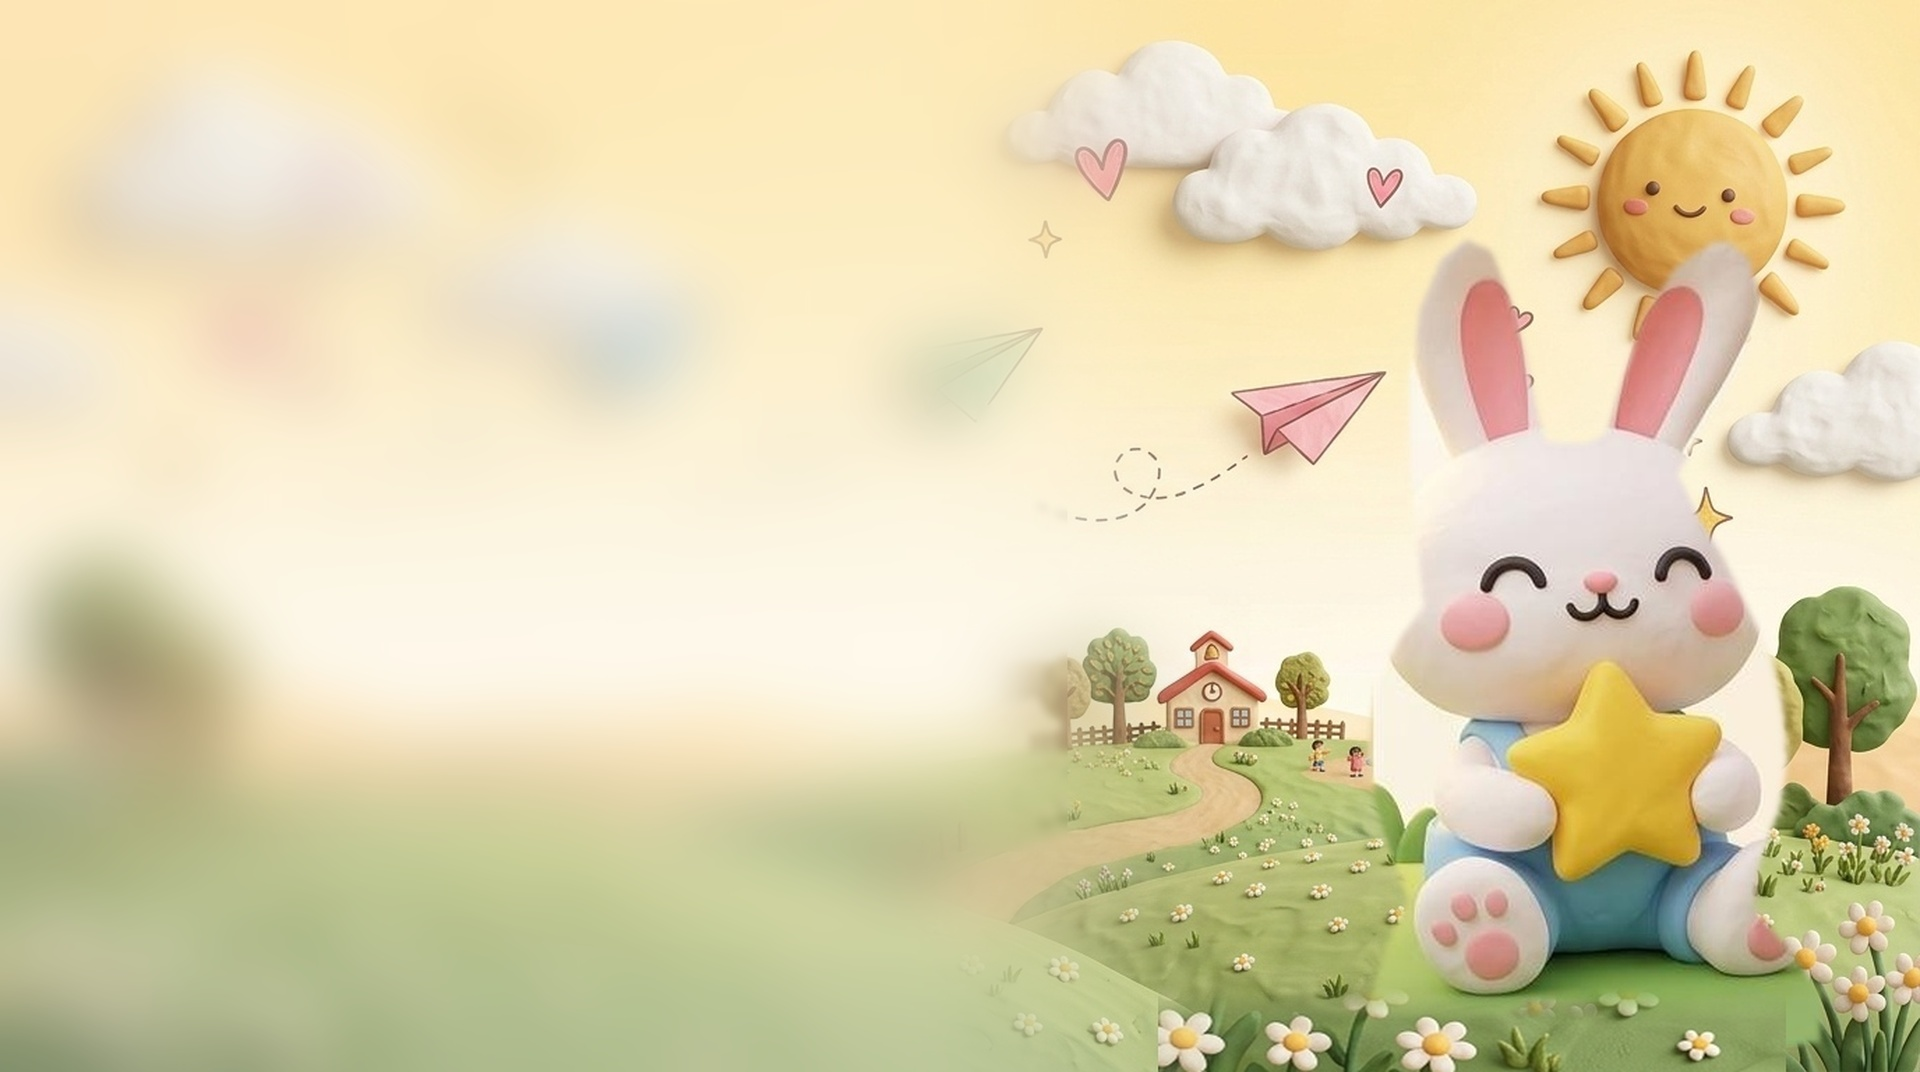
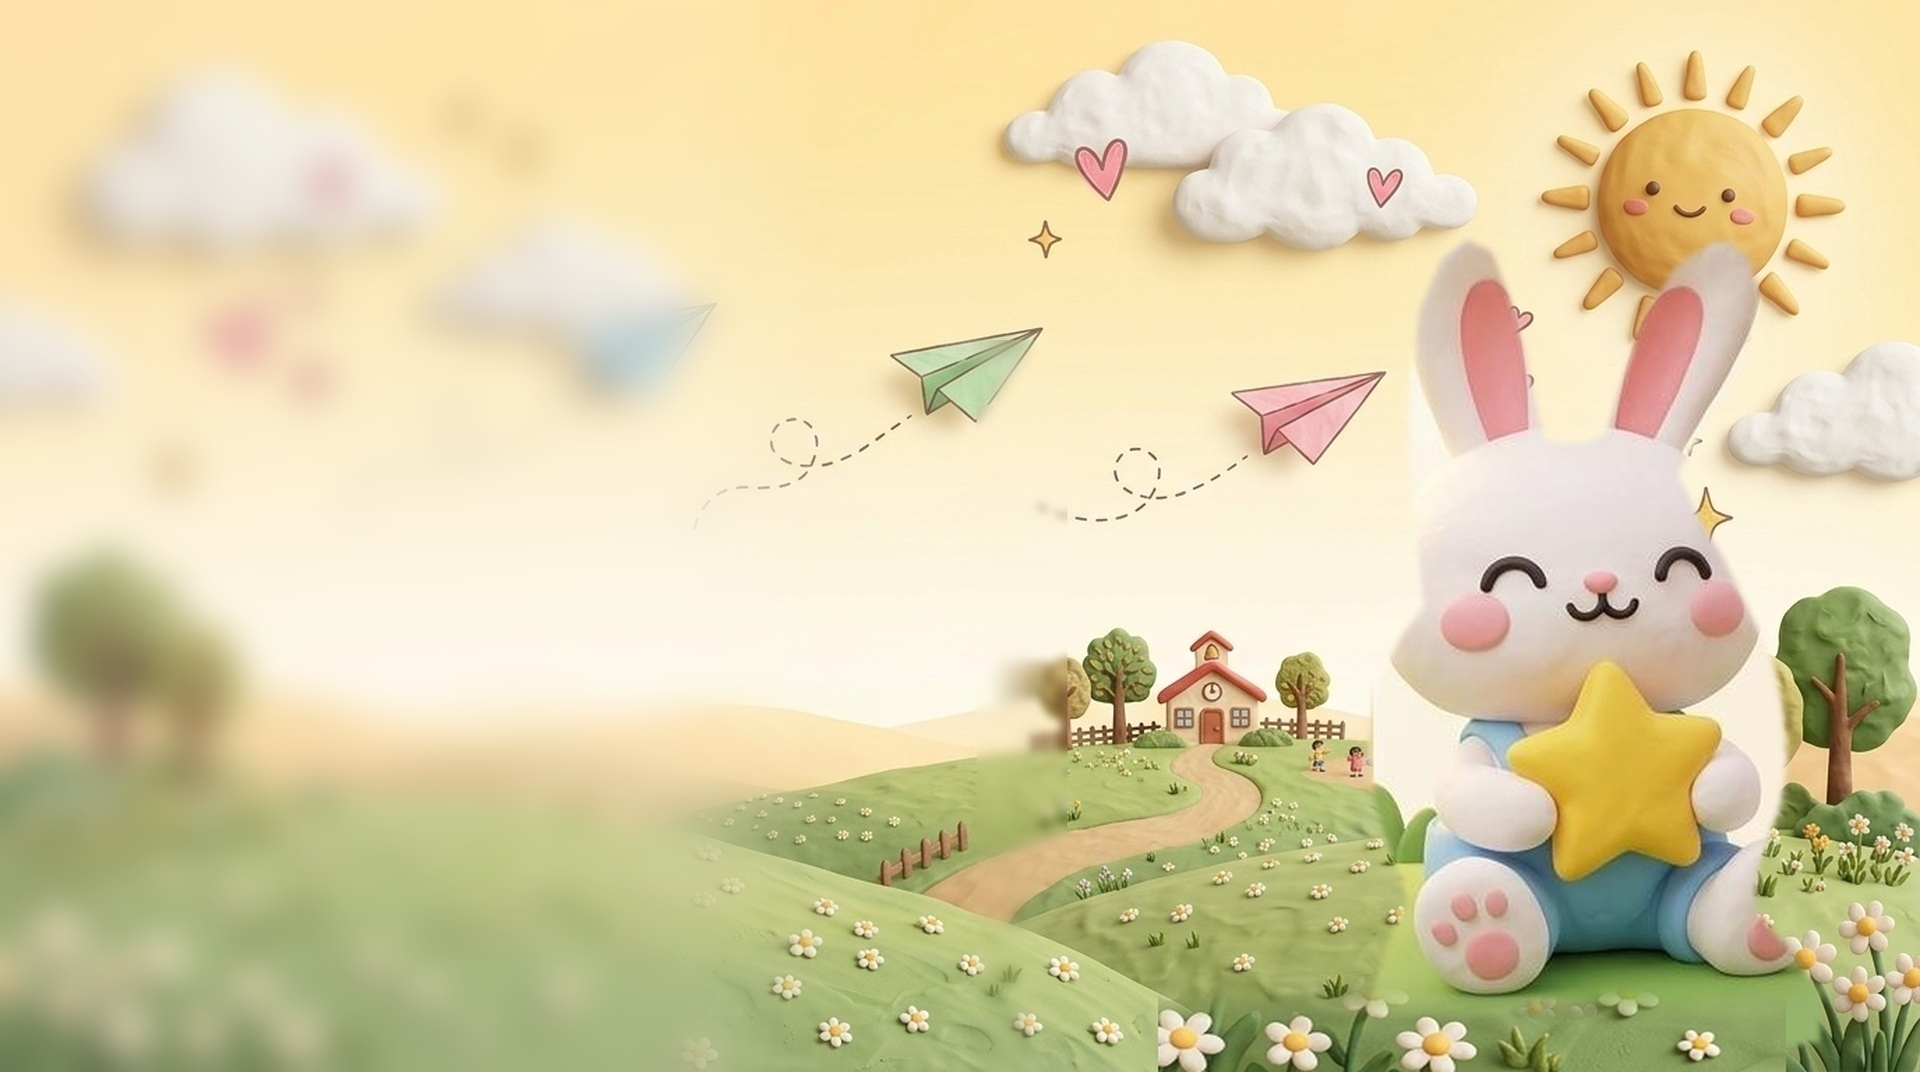
fix(hero): regenerate tailored crisp hero image with perfect alignment and clarity

diff --git a/index.html b/index.html
@@ -179,9 +179,9 @@
   <!-- =========================================================================
        2. ГЛАВНЫЙ ЭКРАН В СТИЛЕ SUN SCHOOL (ПОЛНОФОРМАТНОЕ ФОТО С ЗАМЫЛЕНИЕМ ПОД ТЕКСТ)
        ========================================================================= -->
-  <section class="relative text-[#1D2530] py-12 md:py-20 lg:py-24 overflow-hidden border-b border-[#E8E5DD] bg-cover bg-right lg:bg-center min-h-[640px] lg:min-h-[720px] flex items-center" style="background-image: url('images/zaika_hero_bg.jpg');">
+  <section class="relative text-[#1D2530] py-12 md:py-20 lg:py-24 overflow-hidden border-b border-[#E8E5DD] bg-cover bg-right sm:bg-[position:90%_center] lg:bg-right min-h-[640px] lg:min-h-[720px] flex items-center" style="background-image: url('images/zaika_hero_bg.jpg');">
     <!-- Мягкий полупрозрачный градиент для кристальной читаемости текста на любых экранах -->
-    <div class="absolute inset-0 bg-gradient-to-r from-[#FFFDF9]/95 via-[#FFFDF9]/80 to-transparent pointer-events-none md:w-3/5 lg:w-[58%] z-0"></div>
+    <div class="absolute inset-0 bg-gradient-to-r from-[#FFFDF9]/90 via-[#FFFDF9]/50 to-transparent pointer-events-none w-full sm:w-2/3 lg:w-[48%] z-0"></div>
 
     <div class="max-w-7xl mx-auto px-4 sm:px-6 lg:px-8 relative z-10 w-full">
       
